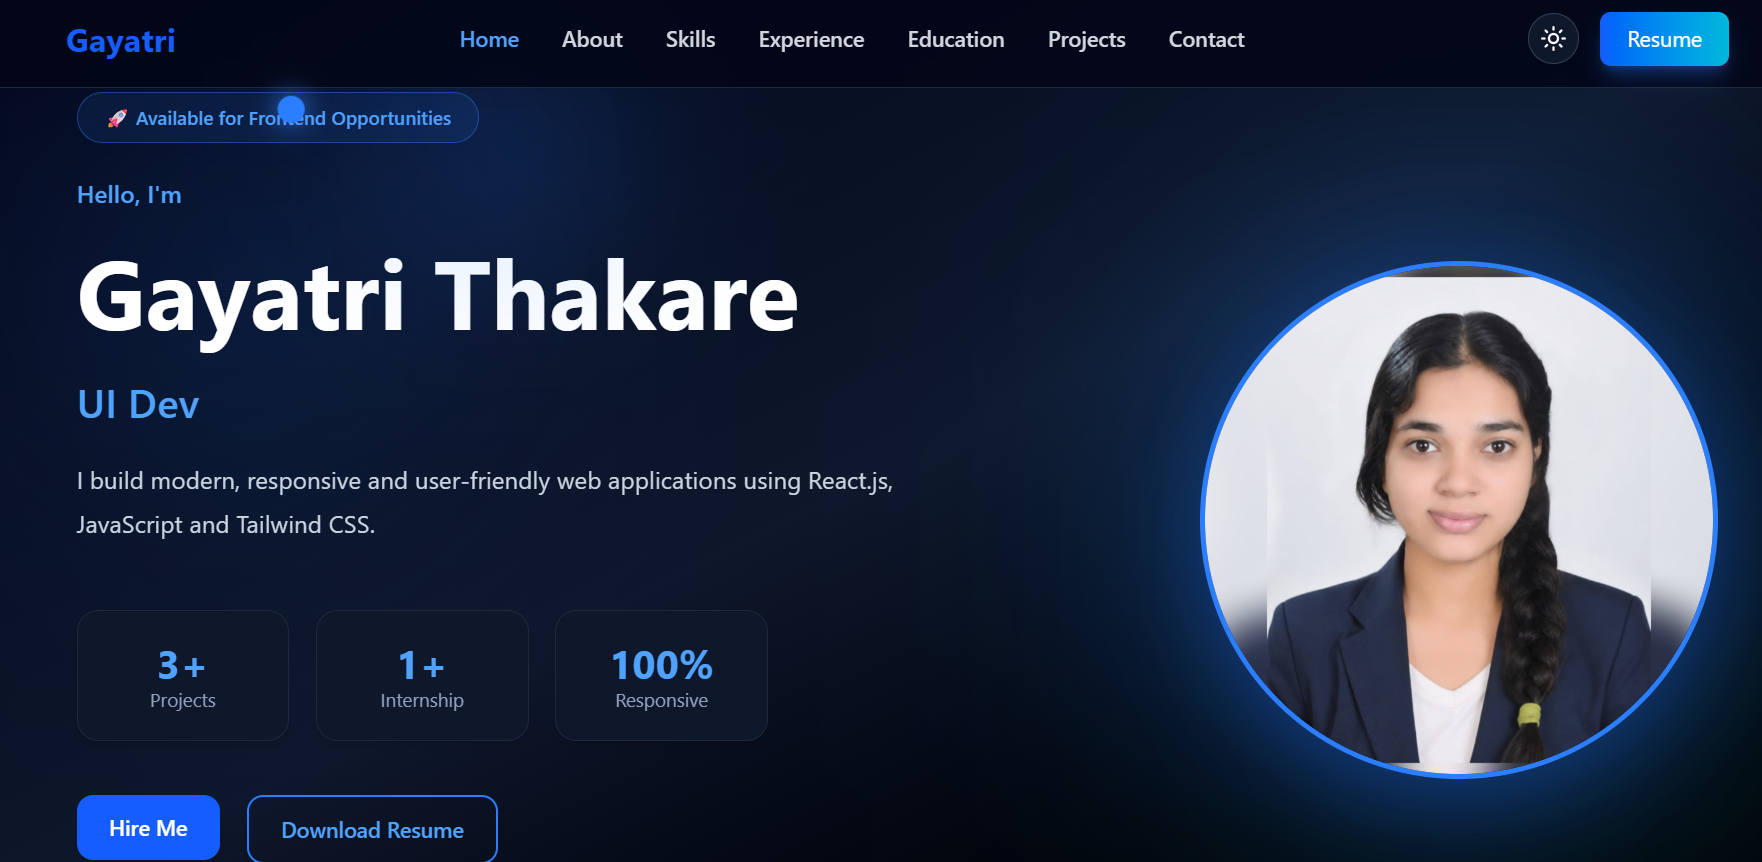
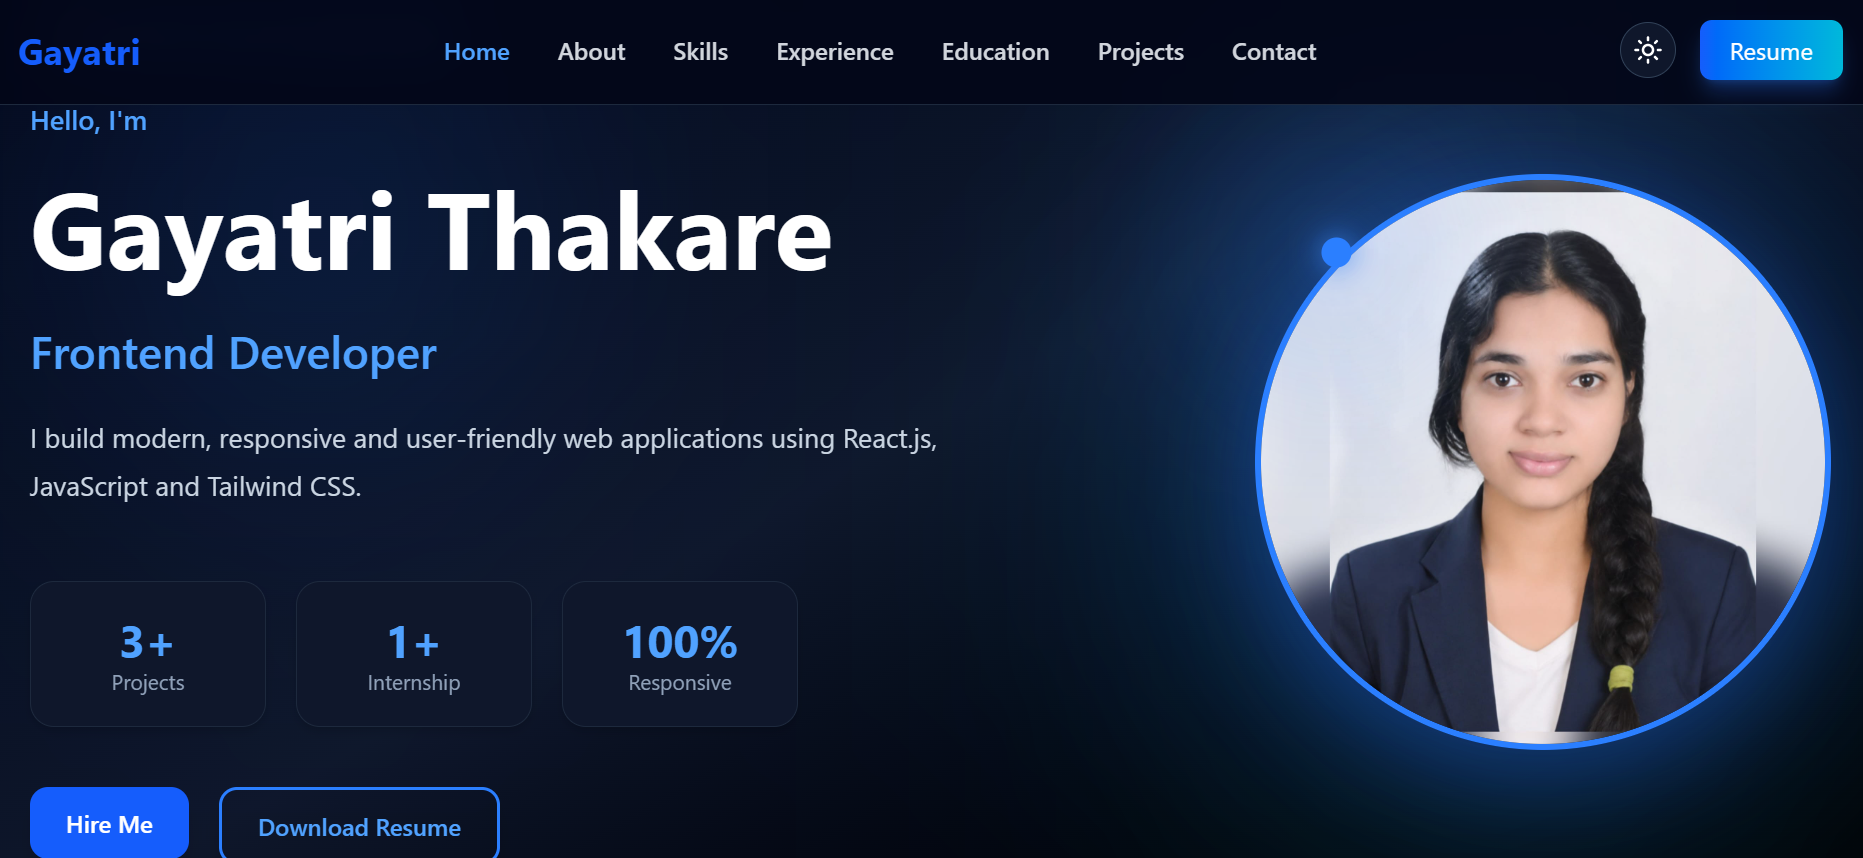
Added certificates section

diff --git a/src/data/personalInfo.js b/src/data/personalInfo.js
@@ -19,9 +19,9 @@ const personalInfo = {
 
   email: "gayatrithakare128@gmail.com",
 
-  github: "https://github.com/gayatripixel",
+  github: "https://github.com/GayatriThakare1216",
 
-  linkedin: "https://www.linkedin.com/in/gayatri-thakare-32a9b4378/",
+  linkedin: "https://www.linkedin.com/in/gayatrithakare12/",
 
   about:
     "Frontend Developer passionate about building modern, responsive and user-friendly web applications using React.js, JavaScript and Tailwind CSS. I enjoy creating clean UI, interactive user experiences and writing maintainable code. Currently looking for Frontend Developer opportunities to contribute, learn and grow.",
@@ -32,7 +32,7 @@ const personalInfo = {
       institute: "NCRD's Sterling Institute",
       university: "University of Mumbai",
       year: "2024 - 2026",
-      percentage: "72.36%",
+      score: "CGPA 7.58065",
     },
 
     {
@@ -40,8 +40,8 @@ const personalInfo = {
       institute: "",
       university: "University of Mumbai",
       year: "",
-      cgpa: "8.70",
-      percentage: "72.77%",
+      score: "CGPA 8.70",
+
     },
 
     {

diff --git a/src/data/certificates.js b/src/data/certificates.js
@@ -31,10 +31,13 @@ const certificates = [
   },
   {
     id: 5,
-    title: "Internship Completion Certificate",
+    title: "Frontend Developer Internship",
     issuer: "SMART ACCESS",
-    year: "june-2026",
-  },  
+    year: "June-2026",
+    Credential_ID: "Internship Completion Certificate",
+    description:
+     "Completed Frontend Developer Internship at SMART ACCESS and developed a Smart Appointment Booking SaaS application using Django, Python, PostgreSQL, HTML, CSS and JavaScript."
+  },
   {
     id: 6,
     title: "Application Development with AI & Essential Skills",

diff --git a/src/App.jsx b/src/App.jsx
@@ -6,7 +6,7 @@ import Hero from "./components/Hero";
 import About from "./components/About";
 import Skills from "./components/Skills";
 import Projects from "./components/Projects";
-import Certificates from "../components/Certificates";
+import Certificates from "./components/Certificates";
 import Contact from "./components/Contact";
 import Footer from "./components/Footer";
 import Experience from "./components/Experience";

diff --git a/src/components/Hero.jsx b/src/components/Hero.jsx
@@ -120,7 +120,7 @@ dark:text-slate-300"
                 dark:bg-slate-900 dark:border-slate-800"
               >
                 <h3 className="text-3xl font-bold text-blue-600 dark:text-blue-400">
-                  3+
+                  4+
                 </h3>
 
                 <p className="text-slate-500 dark:text-slate-400 text-sm">

diff --git a/src/components/About.jsx b/src/components/About.jsx
@@ -20,7 +20,7 @@ function About() {
 
 const stats = [
   {
-    number:"3+",
+    number:"4+",
     title:"Projects"
   },
   {
